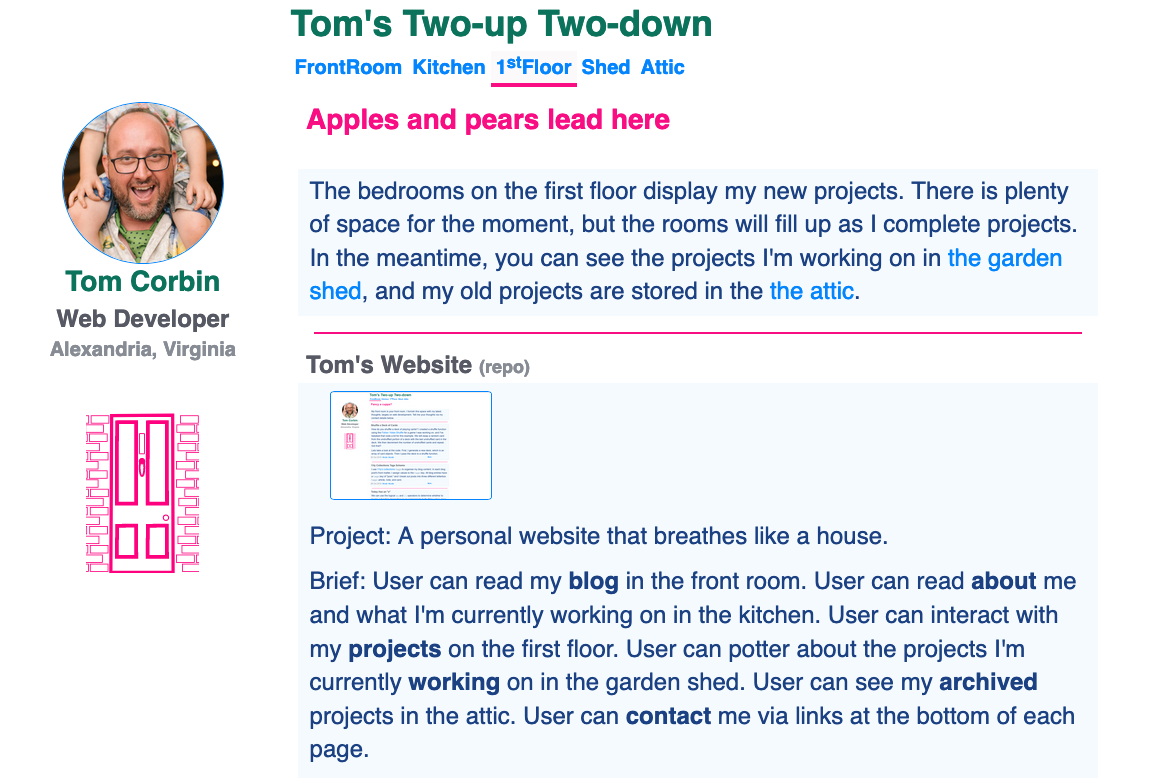
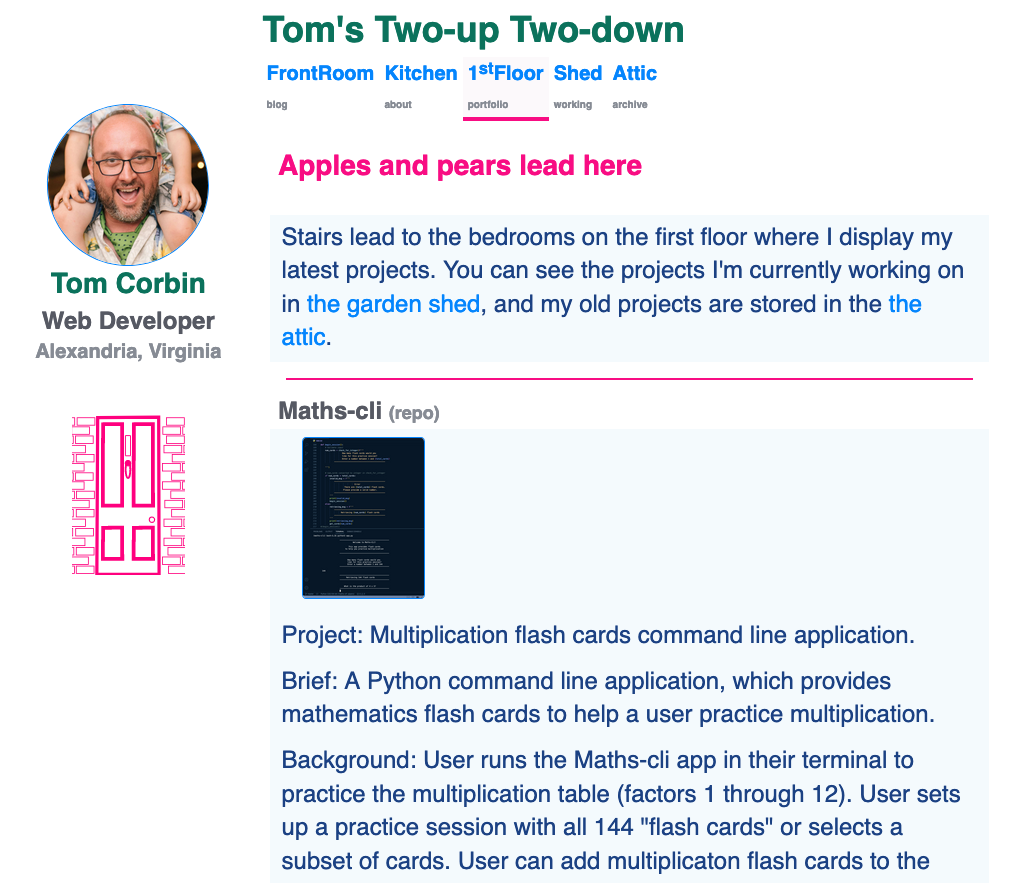
Add swb-capstone project, update Two-up screenshot

Changed region(s): [[0.2488, 0.4319, 0.9329, 0.9871], [0.2488, 0.0, 0.9329, 0.401], [0.0311, 0.0925, 0.2177, 0.7404]]

diff --git a/src/projects/swb-capstone.md b/src/projects/swb-capstone.md
@@ -1,0 +1,20 @@
+---
+title: Statistics Without Borders Website
+description: Modernized non-profit website.
+tags: ["project", "1stFloor"]
+link: https://swbapp.netlify.app/
+gitlink: https://github.com/statisticswithoutborders/swb-app
+image: /assets/images/swb-capstone.png
+date: 2020-08-24 09:00:00.00
+updated: 2020-09-09
+---
+
+Project: Modernized non-profit website.
+
+Brief: Modernize a non-profit's website with a React front end.
+
+Background: Statistics Without Borders (SWB) was our client for this group project to modernize the SWB website with a React front end and a Django back end. This is my tenth and final project, and the capstone group project, for [General Assembly's](https://generalassemb.ly/ "General Assembly homepage") Software Engineering Immersive (SEI) program.
+
+Technologies: I focused on the front end along with most of the team using React, Jest, Enzyme, and Storybook. Other teammates focused on the back end using Django, Python, and PostgreSQL.
+
+Status: Our team initiated the project, and the next GA SEI class will carry on from where we left off.
